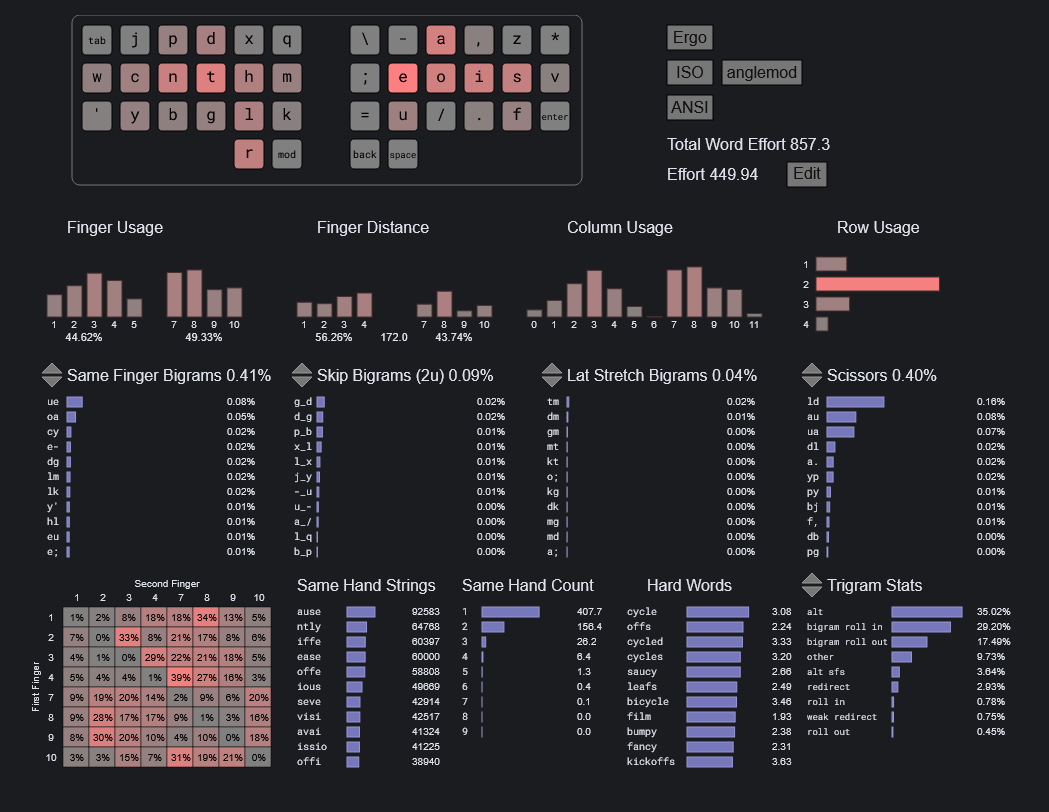
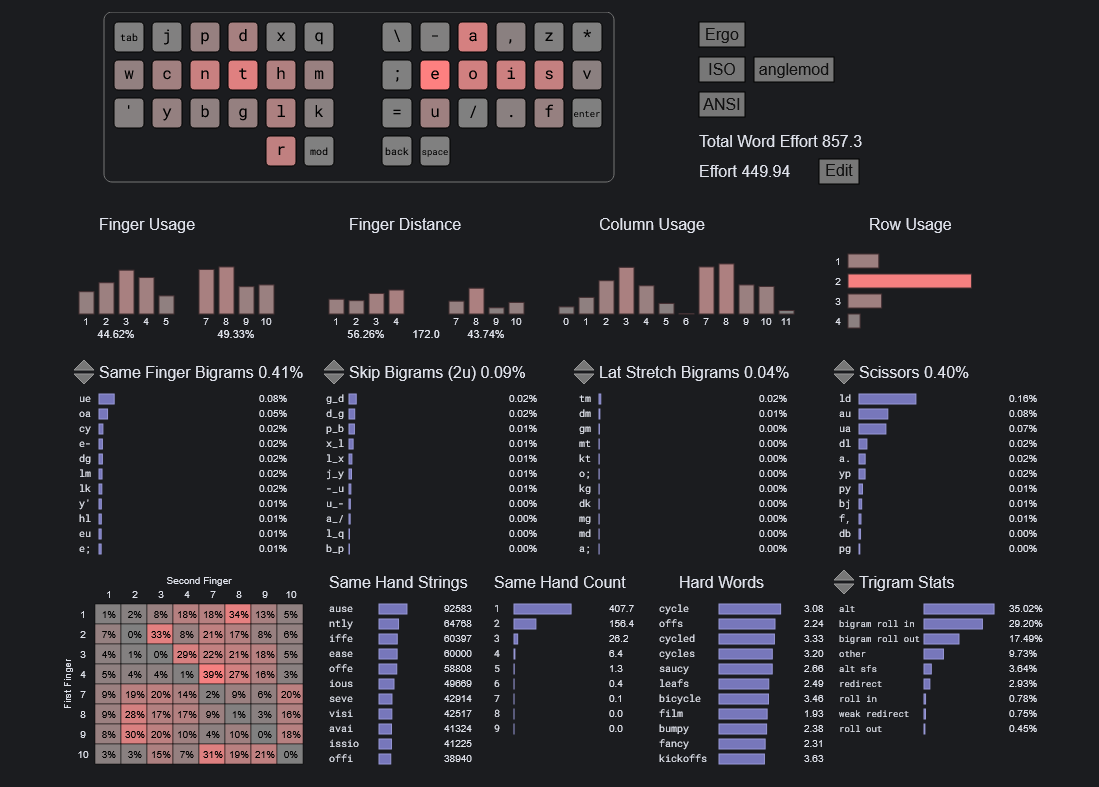
Base keymap is now Tressym

diff --git a/README.md b/README.md
@@ -9,7 +9,7 @@
 ### Tressym
 
 ```text
-  j p d x q  / - a , x
+  j p d x q  / - a , z
 w c n t h m  ; e o i s v
   y b g l z  T u ? . f
         r R  S '
